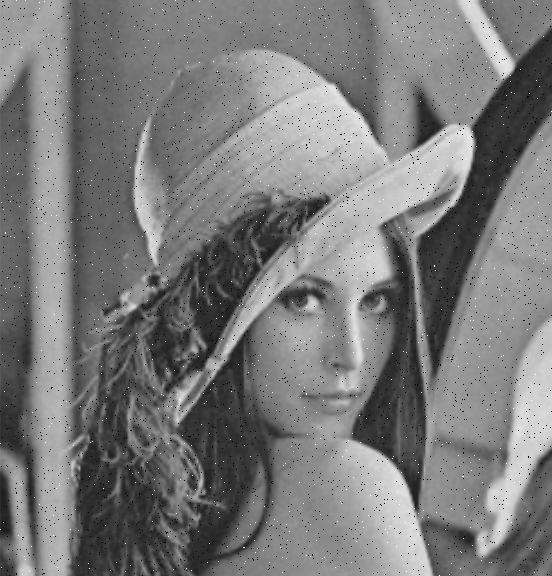
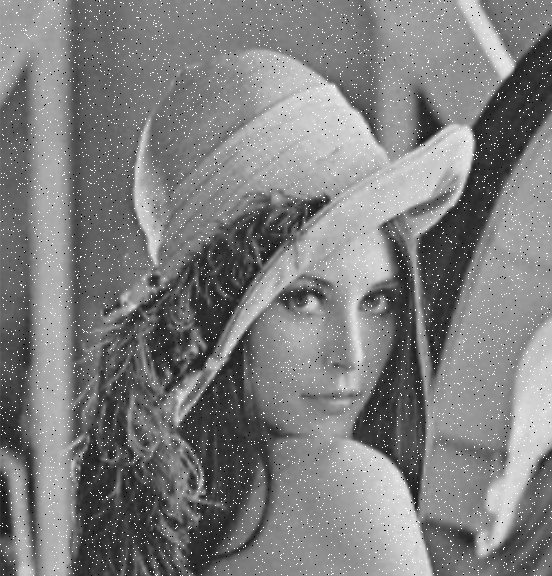
median filter done

diff --git a/StateManager.py b/StateManager.py
@@ -350,6 +350,9 @@ class StateManager(Subject):
         # average
         average = self.generate_averaging_filter()
 
+        # median
+        median = self.median_filtering()
+
         # Generate an image with a grayscale filter
     def generate_grayscale(self, png_image):
         grayscale = np.asarray(png_image)
@@ -393,16 +396,11 @@ class StateManager(Subject):
 
     def generate_averaging_filter(self):
         temp_img = cv2.imread('./assets/grayscale.png', 0)
-        
-        # print(temp_img.shape)
 
-        a,b = temp_img.shape
+        a,b = temp_img.shape # rows & columns
 
         mask = np.array([[1,2,1],[2,4,2],[1,2,1]])
         mask = mask/16
-
-        # print(mask[0,0])
-        # print(mask[1,1])
 
         new_img = np.zeros([a,b])
 
@@ -417,7 +415,7 @@ class StateManager(Subject):
         cv2.imwrite('./assets/average.png', new_img)
         cv2.imshow('averaging filter', new_img)
 
-    # DREW: toggle to apply filter on salt and pepper image or purely grayscale lang
+    # DREW: toggle to apply filter on salt and pepper image or purely grayscale lang for average, median
     def salt_and_pepper(self):
         temp_img = cv2.imread('./assets/grayscale.png', 0)
 
@@ -443,6 +441,26 @@ class StateManager(Subject):
 
 
     def median_filtering(self):
-        cv2.imread('./assets/pic.png', 0)
+        image = cv2.imread('./assets/grayscale.png', 0)
+        a,b = image.shape # rows & columns
+        
+        new_img = np.zeros([a,b])
 
+        for i in range(1, a-1):
+            for j in range(1, b-1):
+                tmp = [image[i-1,j-1], 
+                    image[i-1,j],
+                    image[i-1,j+1],
+                    image[i,j-1],
+                    image[i,j],
+                    image[i,j+1],
+                    image[i+1, j-1],
+                    image[i+1,j],
+                    image[i+1,j+1]]
 
+                tmp = sorted(tmp)
+                new_img[i,j] = tmp[4]
+
+        new_img = new_img.astype(np.uint8)
+        cv2.imwrite('./assets/median.png', new_img)
+        cv2.imshow('median', new_img)
